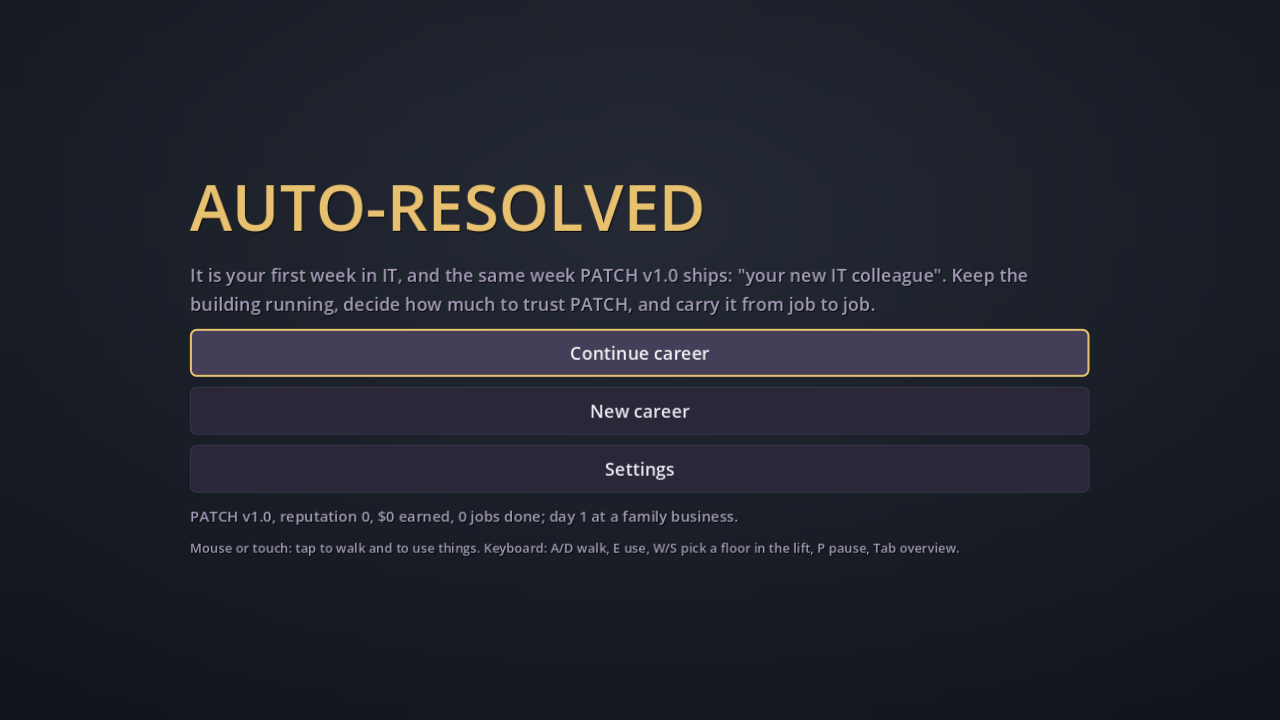
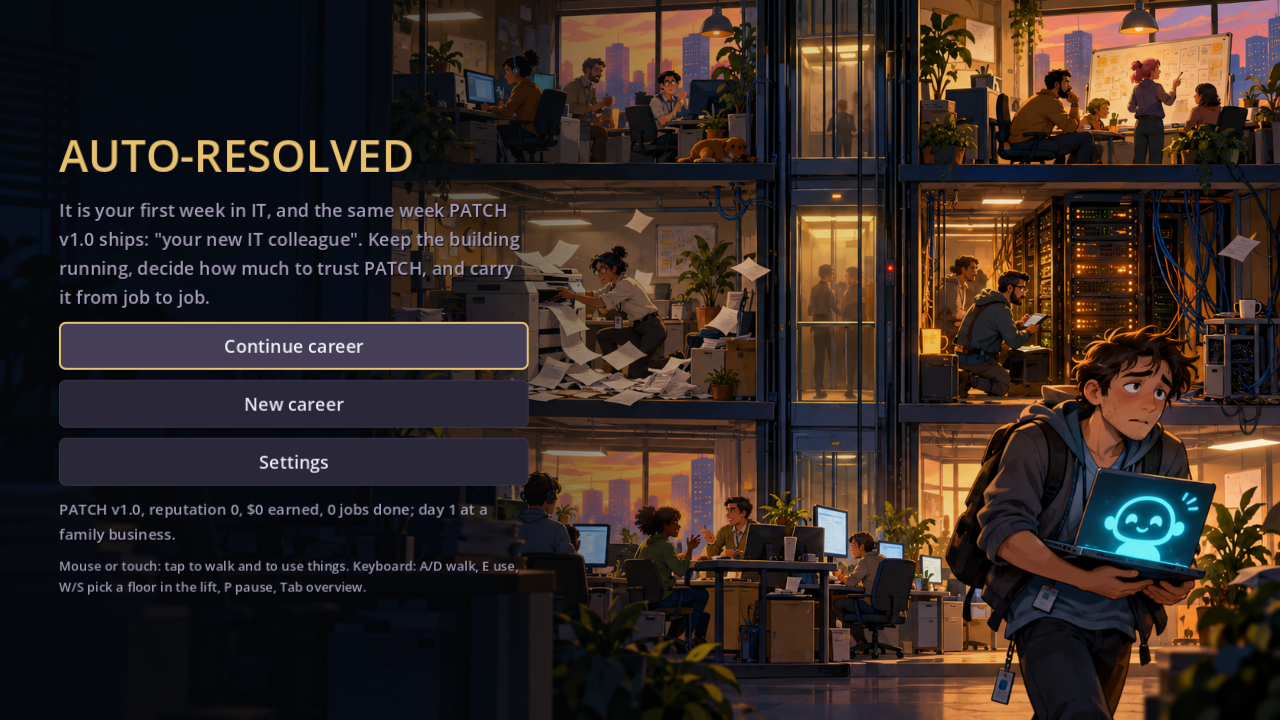
A painted welcome brings the world to the title screen (title art)

diff --git a/docs/art/title_image.md b/docs/art/title_image.md
@@ -1,0 +1,23 @@
+# Title image
+
+Generated with the built-in imagegen tool on 26 October 2026. The Alchemy Tower
+example supplied by the owner informed the level of painterly detail; each scene
+was composed for this game's setting and live menu. Text remains native Godot UI.
+
+Asset: `assets/art/ui/title_screen.png`. Original artwork remains preserved.
+
+## Generation prompt
+
+Use case: stylized-concept. Create a polished hand-painted game title background for Auto-Resolved, landscape 16:9, 1920x1080. Rich detailed illustrated indie game key art, warm cinematic lighting and believable materials, comparable craft to a premium fantasy title painting but modern workplace dry comedy. Side-on cutaway of a busy three-floor office at dusk, connected by a clearly visible elevator shaft, workers with different appearances, a paper-jammed printer spilling sheets, server racks with amber warning lights, desks and cables. Foreground at right a tired junior IT worker carrying a laptop, on its screen a small cheerful abstract cyan AI face (PATCH), no humanoid robots. Main visual storytelling on right two thirds, left third subdued dark navy office wall and shadowed desks providing quiet negative space for live game title and menu. Warm windows against cool blue city evening. Inviting comic tension, no catastrophe or weapons. No text, letters, logos, UI, watermark, frames or borders. Save the generated image as a local file and return its path.
+
+## Integration and verification
+
+- The title uses this project-local image with aspect-preserving cover scaling.
+- Text, focus, settings, saves and start actions remain native Godot UI.
+- Godot 4.7.2 headless editor import completed successfully.
+- Silent automated windowed capture ran on the OpenGL Compatibility renderer;
+  the rendered title was visually inspected at one fixed size.
+- Capture: `docs/verification/career_title.png`. Reproduce with
+  `Godot --path . --audio-driver Dummy --script res://tools/capture_title.gd`.
+- No gameplay simulation suite, export, browser/touch pass or human playtest
+  was run for this title-art change. Nothing was pushed or published.
